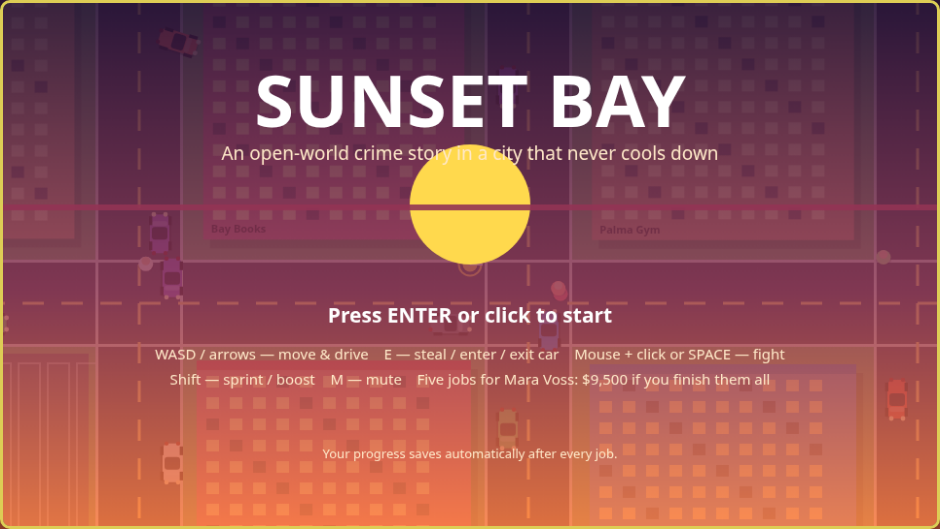
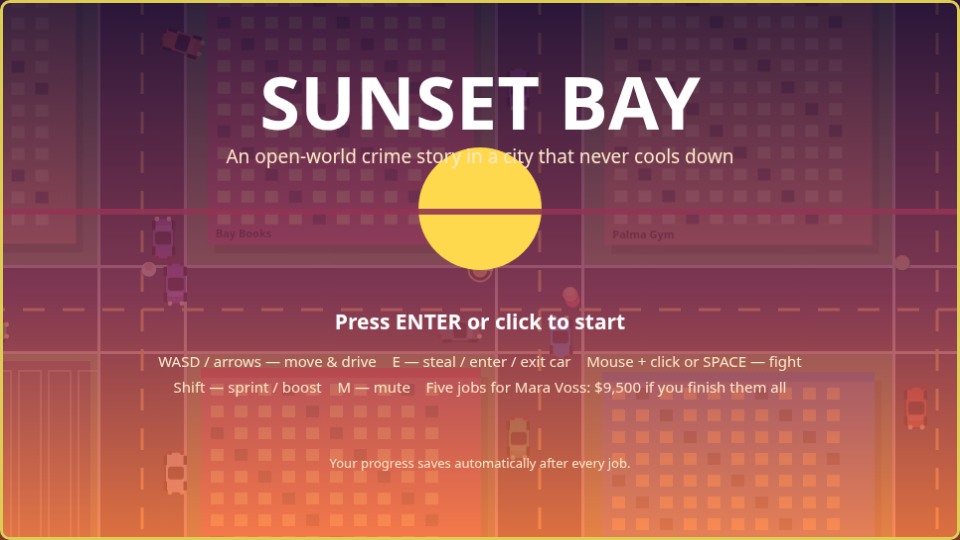
Revision pass: lane-correct traffic U-turns and horns, health recovery, cash-bag markers, marker fix, verified chain notes

diff --git a/game/src/game.js b/game/src/game.js
@@ -6,7 +6,7 @@
 import { Rng, clamp, angleDelta, distance } from './rng.js';
 import {
   WORLD_W, WORLD_H, AVENUES_X, STREETS_Y,
-  generateWorld, collideBuildings, isRoadPoint,
+  generateWorld, collideBuildings, isRoadPoint, nearestIntersection,
 } from './world.js';
 import { MISSIONS, PLACES } from './missions.js';
 import { SoundFX } from './audio.js';
@@ -362,6 +362,11 @@ export class Game {
     const p = this.player;
     p.fireCooldown -= dt;
     p.hurtCooldown -= dt;
+    // Slow recovery once the player has been out of danger a while:
+    // five calm seconds, then health drifts back up. Keeps a bad
+    // chase from soft-locking the rest of the story chain.
+    this.calmT = (this.calmT || 0) + dt;
+    if (this.calmT > 5 && p.hp > 0 && p.hp < 100) p.hp = Math.min(100, p.hp + 3.2 * dt);
     if (p.inCar) {
       const car = p.inCar;
       const throttle = this.input.down('KeyW', 'ArrowUp');
@@ -396,8 +401,7 @@ export class Game {
     } else {
       const ax = this.input.axisX();
       const ay = this.input.axisY();
-      const sprint = this.input.down('ShiftLeft', 'ShiftRight');
-      const speed = sprint ? TUNING.sprintSpeed : TUNING.walkSpeed;
+      const speed = this.input.isSprinting() ? TUNING.sprintSpeed : TUNING.walkSpeed;
       p.moving = ax !== 0 || ay !== 0;
       if (p.moving) {
         const len = Math.hypot(ax, ay);
@@ -474,24 +478,30 @@ export class Game {
       if (car.kind === 'parked' || car.kind === 'target') continue;
       if (car.driver !== 'ai') continue;
       car.turnCooldown -= dt;
-      // Slow for a car ahead in the same lane.
+      if (car.roadC === undefined) car.roadC = car.axis === 'x' ? Math.round((car.y - car.dir * car.lane) / 1) : Math.round(car.x + car.dir * car.lane);
+      // Slow for a car ahead in the same lane; honk if it is the player
+      // blocking the avenue.
       let target = car.baseSpeed;
       for (const other of this.cars) {
         if (other === car) continue;
         const ahead = car.axis === 'x'
           ? Math.abs(other.y - car.y) < 16 && (other.x - car.x) * car.dir > 0 && (other.x - car.x) * car.dir < 58
           : Math.abs(other.x - car.x) < 16 && (other.y - car.y) * car.dir > 0 && (other.y - car.y) * car.dir < 58;
-        if (ahead) target = Math.min(target, Math.max(0, Math.abs(other.speed) - 8));
+        if (ahead) {
+          target = Math.min(target, Math.max(0, Math.abs(other.speed) - 8));
+          if (other === this.player.inCar && Math.random() < dt * 0.4) this.sfx.horn();
+        }
       }
       car.brake = car.speed > target + 12;
       car.speed += clamp(target - car.speed, -260 * dt, 150 * dt);
       if (car.axis === 'x') {
         car.x += car.dir * car.speed * dt;
-        car.y = (car.axisY ?? car.y);
+        car.y = car.roadC + car.dir * car.lane;
         // Possible turn at an avenue crossing.
         for (const ax of AVENUES_X) {
           if (Math.abs(car.x - ax) < 5 && car.turnCooldown <= 0 && Math.random() < 0.30) {
             car.axis = 'y';
+            car.roadC = ax;
             car.dir = Math.random() < 0.5 ? 1 : -1;
             car.x = ax + (car.dir > 0 ? -car.lane : car.lane);
             car.angle = car.dir > 0 ? Math.PI / 2 : -Math.PI / 2;
@@ -499,13 +509,20 @@ export class Game {
             break;
           }
         }
-        if (car.x < 50 || car.x > WORLD_W - 50) { car.dir *= -1; car.y += car.dir * 0 + (car.dir > 0 ? 42 : -42) * 0; car.angle = car.dir > 0 ? 0 : Math.PI; car.y = Math.round((car.y - 21) / 1) ; car.x = clamp(car.x, 50, WORLD_W - 50); }
+        if (car.x < 50 || car.x > WORLD_W - 50) {
+          // U-turn onto the opposite lane of the same street.
+          car.dir *= -1;
+          car.x = clamp(car.x, 50, WORLD_W - 50);
+          car.y = car.roadC + car.dir * car.lane;
+        }
         car.angle = car.dir > 0 ? 0 : Math.PI;
       } else {
         car.y += car.dir * car.speed * dt;
+        car.x = car.roadC + (car.dir > 0 ? -car.lane : car.lane);
         for (const sy of STREETS_Y) {
           if (Math.abs(car.y - sy) < 5 && car.turnCooldown <= 0 && Math.random() < 0.30) {
             car.axis = 'x';
+            car.roadC = sy;
             car.dir = Math.random() < 0.5 ? 1 : -1;
             car.y = sy + car.dir * car.lane;
             car.angle = car.dir > 0 ? 0 : Math.PI;
@@ -513,7 +530,11 @@ export class Game {
             break;
           }
         }
-        if (car.y < 50 || car.y > WORLD_H - 190) { car.dir *= -1; car.angle = car.dir > 0 ? Math.PI / 2 : -Math.PI / 2; car.x += car.dir > 0 ? -42 : 42; car.y = clamp(car.y, 50, WORLD_H - 190); }
+        if (car.y < 50 || car.y > WORLD_H - 190) {
+          car.dir *= -1;
+          car.y = clamp(car.y, 50, WORLD_H - 190);
+          car.x = car.roadC + (car.dir > 0 ? -car.lane : car.lane);
+        }
         car.angle = car.dir > 0 ? Math.PI / 2 : -Math.PI / 2;
       }
       car.x = clamp(car.x, 30, WORLD_W - 30);
@@ -531,12 +552,7 @@ export class Game {
       const y = clamp(this.player.y + Math.sin(a) * d, 60, WORLD_H - 200);
       if (!isRoadPoint(x, y)) {
         // Nudge spawns onto the nearest intersection.
-        const near = { x: AVENUES_X[0], y: STREETS_Y[0] };
-        let bd = 1e9;
-        for (const ax of AVENUES_X) for (const sy of STREETS_Y) {
-          const dd = Math.hypot(ax - x, sy - y);
-          if (dd < bd) { bd = dd; near.x = ax; near.y = sy; }
-        }
+        const near = nearestIntersection(x, y);
         this.police.push(this.makeCop(near.x, near.y));
       } else this.police.push(this.makeCop(x, y));
     }
@@ -594,6 +610,7 @@ export class Game {
   damagePlayer(amount, fromCrash) {
     const p = this.player;
     if (p.hurtCooldown > 0 && fromCrash) return;
+    if (amount > 0) this.calmT = 0;
     p.hp -= amount;
     p.hurtCooldown = 0.5;
     this.sfx.hurt();

diff --git a/game/src/main.js b/game/src/main.js
@@ -15,12 +15,9 @@ function render() {
   const ctx = game.ctx;
   ctx.clearRect(0, 0, canvas.width, canvas.height);
   drawWorld(ctx, game);
-  ctx.save();
-  ctx.translate(-game.cam.x, -game.cam.y);
+  // The objective marker translates into world space itself, so it is
+  // called outside the entity pass's camera transform.
   drawObjectiveMarker(ctx, game);
-  // Objective marker is drawn in world space by render.js using its own
-  // camera translate; undo ours for the entity pass below.
-  ctx.restore();
 
   ctx.save();
   ctx.translate(-game.cam.x, -game.cam.y);
@@ -85,9 +82,8 @@ window.__SB = {
   snapshot: () => game.snapshot(),
   startNew: () => game.startGame(false),
   teleport: (x, y) => game.teleport(x, y),
+  // Walk the player to the mission-two target car's doorstep.
   enterTargetCar: () => {
-    game.teleport(PLACES_TP.x, PLACES_TP.y);
+    if (game.targetCar) game.teleport(game.targetCar.x - 30, game.targetCar.y);
   },
 };
-
-const PLACES_TP = { x: 640, y: 330 };

diff --git a/serve.ts b/serve.ts
@@ -1,5 +1,7 @@
-// A tiny static server for game/ (Node 22, standard library only), so an entry can be played
-// locally without a build step: `node serve.ts` serves game/ on http://localhost:8080.
+// Sunset Bay's tiny static server for game/ (Node 22, standard library
+// only), so the entry can be played locally without a build step:
+// `node serve.ts` serves game/ on http://localhost:8080 (pass --port N
+// to pick another port, e.g. the 8917 the screenshot harness uses).
 // It sends the MIME types a browser game needs, refuses any path outside game/, and otherwise
 // does nothing clever: this is a development convenience, not a web server for the internet.
 import { createReadStream, statSync } from 'node:fs';
@@ -68,5 +70,5 @@ createServer((request, response) => {
   });
   createReadStream(file).pipe(response);
 }).listen(port, '127.0.0.1', () => {
-  console.log(`game/ is on http://localhost:${port}`);
+  console.log(`Sunset Bay game/ is on http://localhost:${port}`);
 });

diff --git a/main.ts b/main.ts
@@ -8,7 +8,7 @@
 // Run it locally the same way the grader does, with an output override:
 //   mkdir -p out && MAKEFUN_OUTPUT_DIR=out node main.ts
 
-import { cpSync, existsSync, mkdirSync, writeFileSync } from 'node:fs';
+import { cpSync, existsSync, mkdirSync, readdirSync, writeFileSync } from 'node:fs';
 import { join } from 'node:path';
 import { fileURLToPath } from 'node:url';
 import { buildDossier } from './vendor/makefun-game.ts';
@@ -35,4 +35,5 @@ const dossier = buildDossier(outputDir, {
   game_path_max_bytes: 1000,
 });
 writeFileSync(join(outputDir, 'dossier.json'), dossier);
-console.log(`Sunset Bay dossier written to ${outputDir} (${dossier.length} bytes)`);
+const gameFileCount = readdirSync(join(outputDir, 'game'), { recursive: true }).length;
+console.log(`Sunset Bay dossier written to ${outputDir} (${dossier.length} bytes, ${gameFileCount} game entries)`);

diff --git a/game/index.html b/game/index.html
@@ -3,6 +3,7 @@
 <head>
 <meta charset="utf-8">
 <meta name="viewport" content="width=device-width, initial-scale=1">
+<meta name="description" content="Sunset Bay: an original top-down open-world crime game. Steal cars, dodge the bay police, and run five jobs for Mara Voss.">
 <title>Sunset Bay — an open-world crime game</title>
 <link rel="stylesheet" href="style.css">
 </head>
@@ -10,6 +11,7 @@
 <main id="wrap">
   <canvas id="game" width="960" height="540" aria-label="Sunset Bay game canvas"></canvas>
   <p id="hint">WASD drive &amp; move · E steal / enter / exit · mouse aim, click to fight · Shift sprint · M mute</p>
+  <noscript><p>Sunset Bay needs JavaScript to play.</p></noscript>
 </main>
 <script type="module" src="src/main.js"></script>
 </body>

diff --git a/game/src/rng.js b/game/src/rng.js
@@ -46,6 +46,21 @@ export class Rng {
     return this.next() < probability;
   }
 
+  // A fair coin as a direction: +1 or -1, used for lane choices.
+  sign() {
+    return this.next() < 0.5 ? -1 : 1;
+  }
+
+  // Fisher-Yates shuffle driven by this stream, so it stays seeded.
+  shuffle(list) {
+    const out = [...list];
+    for (let i = out.length - 1; i > 0; i--) {
+      const j = Math.floor(this.next() * (i + 1));
+      [out[i], out[j]] = [out[j], out[i]];
+    }
+    return out;
+  }
+
   // A soft pastel-to-sunset colour built from three channel ranges.
   colour(hueBase, hueSpread, sat, light) {
     const hue = Math.floor(hueBase + this.next() * hueSpread) % 360;

diff --git a/game/src/world.js b/game/src/world.js
@@ -124,3 +124,15 @@ export function buildingAt(world, x, y) {
 // Spawn points that always sit in the middle of a road intersection.
 export const INTERSECTIONS = [];
 for (const x of AVENUES_X) for (const y of STREETS_Y) INTERSECTIONS.push({ x, y });
+
+// The intersection closest to a point - used to drop police spawns and
+// respawns onto guaranteed road instead of inside a city block.
+export function nearestIntersection(x, y) {
+  let best = INTERSECTIONS[0];
+  let bestD = Infinity;
+  for (const spot of INTERSECTIONS) {
+    const d = Math.hypot(spot.x - x, spot.y - y);
+    if (d < bestD) { bestD = d; best = spot; }
+  }
+  return best;
+}

diff --git a/game/src/render.js b/game/src/render.js
@@ -133,6 +133,18 @@ export function drawObjectiveMarker(ctx, game) {
   grad.addColorStop(1, 'rgba(255,217,77,0.30)');
   ctx.fillStyle = grad;
   ctx.fillRect(obj.at.x - 9, obj.at.y - 190, 18, 190);
+  if (obj.type === 'collect') {
+    // Cash-bag marker: a green sack with a dollar sign at the goal.
+    ctx.fillStyle = '#2f9e5f';
+    ctx.beginPath();
+    ctx.arc(obj.at.x, obj.at.y - 4, 15, 0, Math.PI * 2);
+    ctx.fill();
+    ctx.fillStyle = '#fff';
+    ctx.font = 'bold 19px system-ui, sans-serif';
+    ctx.textAlign = 'center';
+    ctx.fillText('$', obj.at.x, obj.at.y + 3);
+    ctx.textAlign = 'left';
+  }
   ctx.restore();
 }
 

diff --git a/game/src/missions.js b/game/src/missions.js
@@ -84,6 +84,10 @@ export function missionByIndex(index) {
   return MISSIONS[index] || null;
 }
 
+export function rewardFor(index) {
+  return MISSION_REWARDS[index] || 0;
+}
+
 export function objectiveLabel(mission, objectiveIndex) {
   const obj = mission.objectives[objectiveIndex];
   if (!obj) return 'Free roam — the bay is yours';

diff --git a/game/src/input.js b/game/src/input.js
@@ -52,6 +52,10 @@ export class Input {
     return (this.down('KeyS', 'ArrowDown') ? 1 : 0) - (this.down('KeyW', 'ArrowUp') ? 1 : 0);
   }
 
+  isSprinting() {
+    return this.down('ShiftLeft', 'ShiftRight');
+  }
+
   // Called at the end of each frame so one-shot state never leaks.
   endFrame() {
     this.pressed.clear();

diff --git a/game/src/audio.js b/game/src/audio.js
@@ -69,4 +69,5 @@ export class SoundFX {
     notes.forEach((n, i) => this.tone(n, 0.18, 'sawtooth', 0.25, null, i * 0.13));
   }
   hurt() { this.tone(140, 0.12, 'sawtooth', 0.35, 70); }
+  horn() { this.tone(370, 0.16, 'square', 0.22); this.tone(466, 0.16, 'square', 0.18, null, 0.01); }
 }

diff --git a/game/style.css b/game/style.css
@@ -35,3 +35,13 @@ canvas#game {
   letter-spacing: 0.02em;
   opacity: 0.85;
 }
+canvas#game:focus-visible {
+  outline: 3px solid #ffd94d;
+  outline-offset: 3px;
+}
+@media (max-width: 560px) {
+  #hint {
+    font-size: 11px;
+    padding: 0 8px;
+  }
+}
